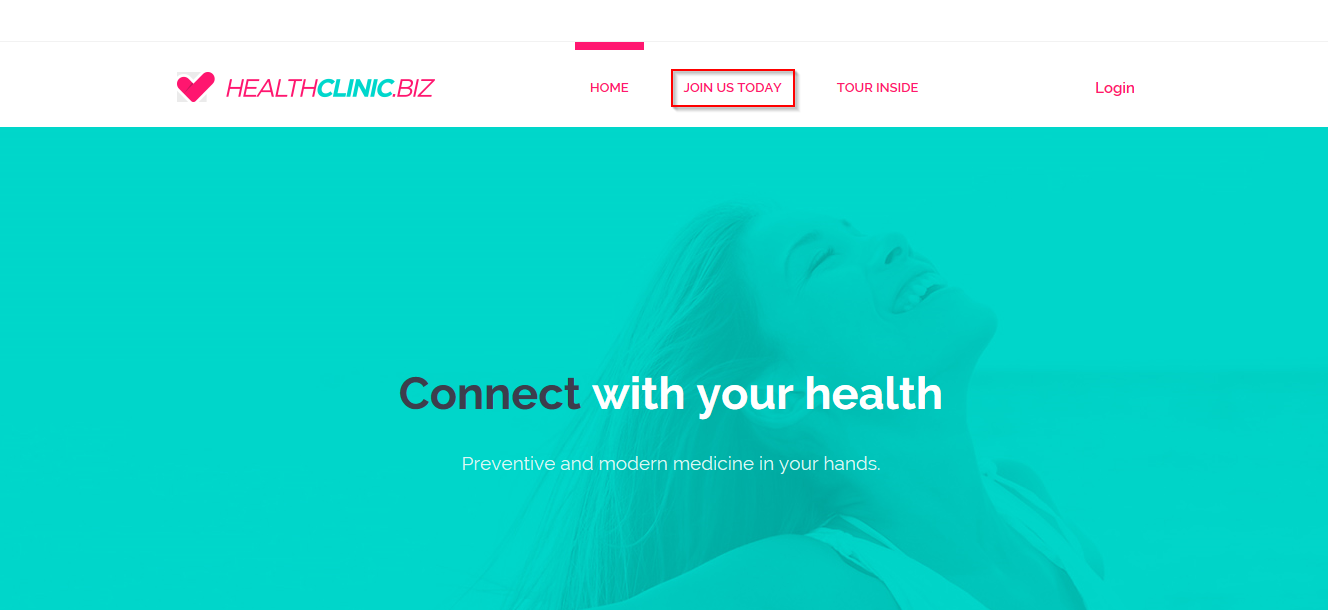
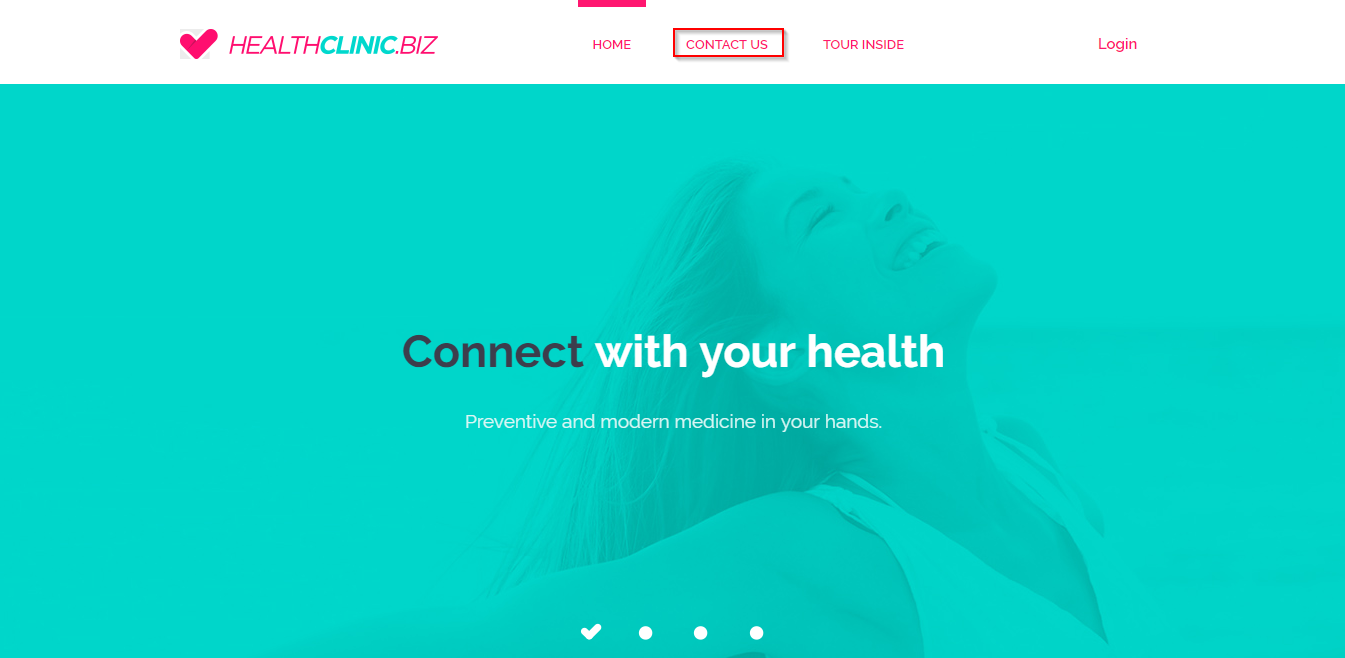
updated content

diff --git a/kubernetes/readme.md b/kubernetes/readme.md
@@ -2,17 +2,24 @@
 
 ## Overview
 
-This lab shows how to build custom images of [**Dockerized ASP.NETCORE**](https://docs.docker.com/engine/examples/dotnetcore/) web application, push those images to [**Private Repository**](https://docs.docker.com/registry/) [(Azure Container Registry)](https://azure.microsoft.com/en-in/services/container-registry/), and pull these images to deploy in **Azure Container Service (AKS)** using Visual Studio Team Services.
+Container deployment makes it easy to continuously update and improve your applications. Create replicable, manageable clusters of containers by orchestrating the continuous integration and deployment of those containers using Kubernetes or DC/OS in Azure Container Service. Use Visual Studio Team Services to deploy faster and more reliably by setting up a continuous build to produce and orchestrate your container images.
+This solution is built on the Azure managed services: Azure Container Service (AKS). These services run in a high-availability environment, patched and supported, allowing you to focus on your solution instead of the environment they run in.
 
-[**Azure Container Service (AKS)**](https://azure.microsoft.com/en-us/services/container-service/) is the quickest path from zero to Kubernetes on Azure. This new service features an Azure-hosted control plane, automated upgrades, self-healing, easy scaling, and a simple user experience for both developers and cluster operators. With AKS, customers get the benefits of open source Kubernetes without complexity and operational overhead. Combination of Team Services and Azure integration with Docker will enable you to:
+[**Azure Container Service (AKS)**](https://azure.microsoft.com/en-us/services/container-service/) is the quickest path from zero to Kubernetes on Azure. This new service features an Azure-hosted control plane, automated upgrades, self-healing, easy scaling, and a simple user experience for both developers and cluster operators. With AKS, customers get the benefits of open source Kubernetes without complexity and operational overhead.
+
+This lab shows how to build custom images of ASP.NETCORE web application and deploy to **Azure Container Service (AKS)** using Visual Studio Team Services.
+
+Combination of Team Services and Azure integration with Docker will enable you to:
 
 1. [Build](https://docs.docker.com/engine/reference/commandline/build/) your own custom images using [VSTS Hosted Linux agent](https://docs.microsoft.com/en-us/vsts/build-release/concepts/agents/hosted)
 1. [Push](https://docs.docker.com/engine/reference/commandline/push/) and store images in your private repository
 1. Deploy and [run](https://docs.docker.com/engine/reference/commandline/run/) images in managed Kubernetes setup
 
-Below screenshot helps you understand the VSTS DevOps workflow with Docker:
+Below screenshot helps you understand the VSTS DevOps workflow with Azure Container Service:
 
-![](images/vstsdockerdevops.png)
+<a href="https://azure.microsoft.com/en-in/solutions/architecture/continuous-integration-deployment-containers/" target="_blank">
+
+![](images/vstsaksdevops.png) </a>
 
 ## Pre-requisites
 
@@ -26,45 +33,22 @@ Below screenshot helps you understand the VSTS DevOps workflow with Docker:
 
 1. Install [KubeCtl](https://kubernetes.io/docs/tasks/tools/install-kubectl/), and make sure kubectl is added to [PATH Environment Variable](https://msdn.microsoft.com/en-us/library/office/ee537574(v=office.14).aspx)
 
-1. Have a pair of public & private [SSH keys](https://www.ssh.com/ssh/keygen/)
+1. Have a pair of public & private [SSH keys](https://docs.microsoft.com/en-us/azure/virtual-machines/linux/ssh-from-windows)
 
 ## Setting up the Environment
 
-We will create an **Azure Container Registry (ACR)** to store the images generated during VSTS build. These images contain environment configuration details with build settings.  An **Azure Container Service (AKS)** is created where custom built images will be deployed to run inside container. **Azure SQL Database** along with **SQL Server** is created as a backend to **MyHealthClinic** .NetCore sample application.
+We require below azure resources:
 
-1. Click on **Deploy to Azure** (or right click and select ***Open in new tab***) to spin up **Azure Container Registry**, **Azure Container Service (AKS)** and **Azure SQL Database** along with **Azure SQL Server**. Enter required details such as Acr name, AKS Name and DB Server Name. Agree to ***Terms and Conditions***, and click **Purchase**.
-
-   <a href="https://portal.azure.com/#create/Microsoft.Template/uri/https%3A%2F%2Fraw.githubusercontent.com%2FMicrosoft%2FVSTS-DevOps-Labs%2Fkubernetes%2Fkubernetes%2Ftemplates%2Fazuredeploy.json" target="_blank">
-
-   ![](http://azuredeploy.net/deploybutton.png)</a>
-
-   Click [here](https://azure.microsoft.com/en-in/regions/services/) to to see Azure products available by region. (DO NOT use ***Central US*** for location as it has issues provisioning registry)
-
-   **Note**: Use small case letters for ***DB Server Name***.
-
-   ![](images/customtemplate1.png)
-   ![](images/customtemplate2.png)
-
-1. It takes approximately **4 to 5 minutes** to provision the environment. Click on **Go To resource group**. (update below pic)
-
-   ![](images/deploymentsucceeded.png)
-
-1. Below components are created post deployment.
-
-    <table width="100%">
-     <thead>
+  <table width="100%">
+    <thead>
       <tr>
-         <th width="50%"><b>Azure Components</b></th>
+         <th width="50%"><b>Azure resources</b></th>
          <th><b>Description</b></th>
       </tr>
     </thead>
     <tr>
       <td><img src="images/container_registry.png" width="30px"><b>Azure Container Registry</b></td>
       <td>Used to store images privately</td>
-    </tr>
-    <tr>
-      <td><img src="images/storage.png" width="30px"> <b>Storage Account</b></td>
-      <td>Container Registry resides in this storage account</td>
     </tr>
     <tr>
       <td><img src="images/aks.png" width="30px"> <b>AKS</b></td>
@@ -74,11 +58,24 @@ We will create an **Azure Container Registry (ACR)** to store the images generat
       <td><img src="images/sqlserver.png" width="30px"> <b>SQL Server</b> </td>
       <td>SQL Server to host database</td>
     </tr>
-    <tr>
-      <td><img src="images/sqldb.png" width="30px"> <b>SQL database</b> </td>
-      <td>SQL database to host MyHealthClinic data</td>
-    </tr>
     </table>
+
+1. Click on **Deploy to Azure** (or right click and select ***Open in new tab***) to spin up **Azure Container Registry**, **Azure Container Service (AKS)** and **Azure SQL Database** along with **Azure SQL Server**. Enter required details such as ACR name, AKS Name and DB Server Name. Agree to ***Terms and Conditions***, and click **Purchase**.
+
+   <a href="https://portal.azure.com/#create/Microsoft.Template/uri/https%3A%2F%2Fraw.githubusercontent.com%2FMicrosoft%2FVSTS-DevOps-Labs%2Fkubernetes%2Fkubernetes%2Ftemplates%2Fazuredeploy.json" target="_blank">
+
+   ![](http://azuredeploy.net/deploybutton.png)</a>
+
+   **Note**: Use lower case for ***DB Server Name***. Click [here](https://azure.microsoft.com/en-in/regions/services/) to to see Azure products available by region.
+
+   ![](images/customtemplate1.png)
+   ![](images/customtemplate2.png)
+
+1. It takes approximately **4 to 5 minutes** to provision the environment. Click on **Go To resource group**. (update below pic)
+
+   ![](images/deploymentsucceeded.png)
+
+1. Below components are created post deployment.
 
    ![](images/azurecomponents.png)
 
@@ -98,9 +95,11 @@ We will create an **Azure Container Registry (ACR)** to store the images generat
 
    ![](images/akscomponents.png)
 
+   Now that required the azure components are created, let us create a VSTS project.
+
 ## Setting up the VSTS Project
 
-1. Use [VSTS Demo Data Generator](https://vstsdemogenerator.azurewebsites.net/?name=AKS&templateid=77363) to provision a project on your VSTS account
+1. Use [VSTS Demo Data Generator](https://vstsdemogenerator.azurewebsites.net/?name=AKS&templateid=77363) to provision a project on your VSTS account.
 
     ![](images/vstsdg.png)
 
@@ -114,7 +113,7 @@ We will create an **Azure Container Registry (ACR)** to store the images generat
 
 ## Exercise 1: Endpoint Creation
 
-Since the connections are not established during project provisioning, we will manually create the Azure and AKS endpoints.
+Since the connections are not established during project provisioning, let us manually create the Azure and AKS endpoints.
 
 1. In VSTS, navigate to **Services** by clicking on the gear icon ![](images/gear.png), and click on **+ New Service Endpoint**. Select **Azure Resource Manager**. Specify **Connection name**, select your **Subscription** from the dropdown and click **OK**. We use this endpoint to connect **VSTS** and **Azure**.
 
@@ -207,11 +206,12 @@ Since the connections are not established during project provisioning, we will m
 
     ![](images/update_rd1.png)
 
-    ![](images/update_rd2.png)
-
     - **Create Deployments & Services in AKS** will create deployments and services in AKS as per configuration specified in **mhc-aks.yaml** file. Pods will pull the latest image for first time.
 
     - **Update image in AKS** will pull the appropriate image corresponding to the BuildID from repository specified, and deploys the image to **mhc-front pod** running in AKS.
+
+    ![](images/update_rd2.png)
+
 
 ## Exercise 3: Update Connection String & ACR in Code
 
@@ -237,9 +237,11 @@ Now that the database schema and data is set, we will update the connection stri
 
     ![](images/editmhcaks.png)
 
+    This file consists details of deployments and services in Kubernetes.
+
 ## Exercise 4: Enable CI and Update Code to Trigger CI-CD
 
-In this exercise, we will enable the continuous integration trigger to create a new build for each commit to the master branch, and update the code to trigger CI-CD. As per instructions mentioned in **mhc-aks.yml** file the required deployments and services will be created in Kubernetes. Our application is designed to be deployed with **loadbalancer** in front end and **redis cache** in the back end.
+In this exercise, we will enable the continuous integration trigger to create a new build for each commit to the master branch, and update the code to trigger CI-CD. As per instructions mentioned in **mhc-aks.yml** file the required deployments and services will be created in Kubernetes. Our application is designed to be deployed with **load balancer** in front end and **Redis cache** in the back end.
 
 1. Go to **Builds** under **Build and Release** tab, **Edit** the build definition **AKS**.
 
@@ -259,7 +261,7 @@ In this exercise, we will enable the continuous integration trigger to create a 
 
    ![](images/editcode.png)
 
-1. Go to line number **28**, update **JOIN US** to **JOIN US TODAY**, and click **Commit**.
+1. Go to line number **28**, update **JOIN US** to **CONTACT US**, and click **Commit**.
 
     ![](images/lineedit.png)
 
@@ -289,13 +291,15 @@ In this exercise, we will enable the continuous integration trigger to create a 
 
     ![](images/getpods.png)
 
+    Our web application is running in these pods.
+
 1. To access your application, run the below command. If you see that **External-IP** is pending, wait for a while until an IP is assigned.
 
     >**kubectl get service mhc-front --watch**
 
     ![](images/watchfront.png)
 
-1. Copy **External-IP** and paste in your browser.
+1. Copy **External-IP** and paste in your browser to see the changes.
 
     ![](images/finalresult.png)
 
